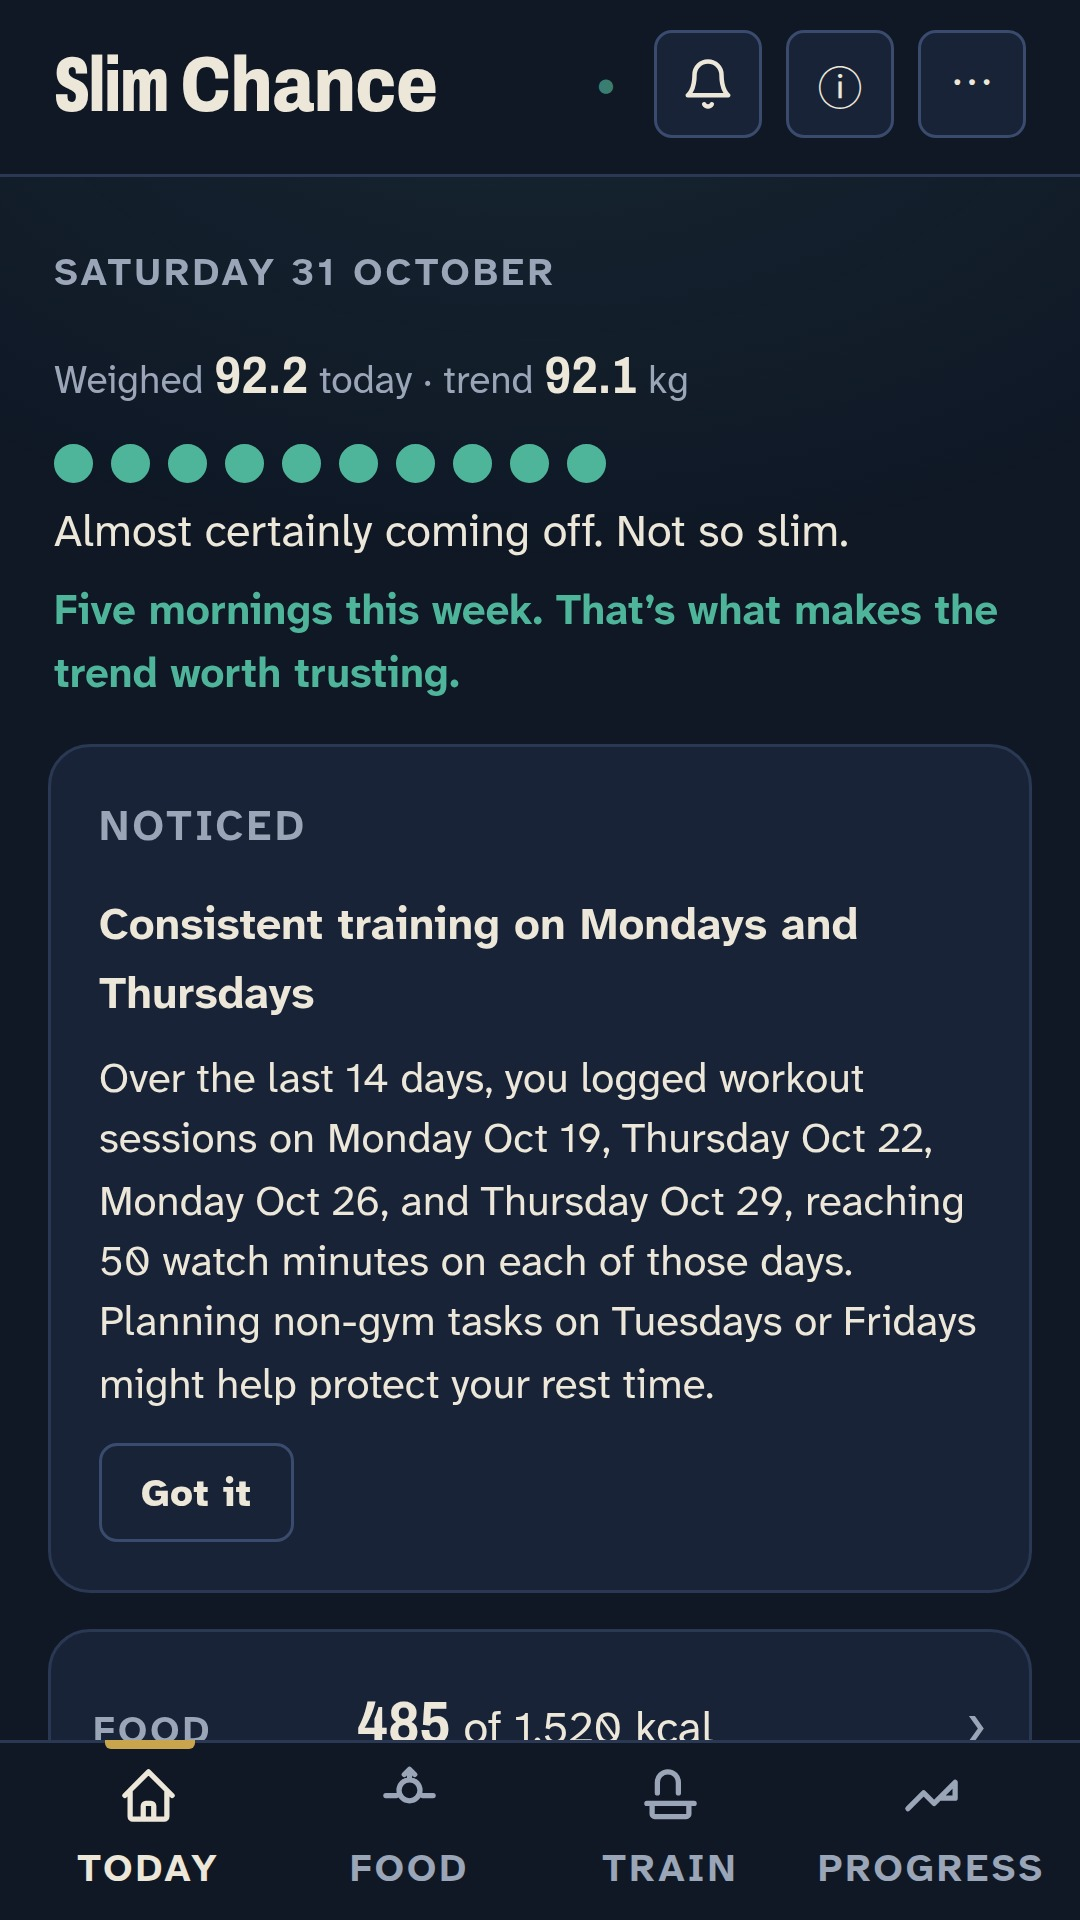
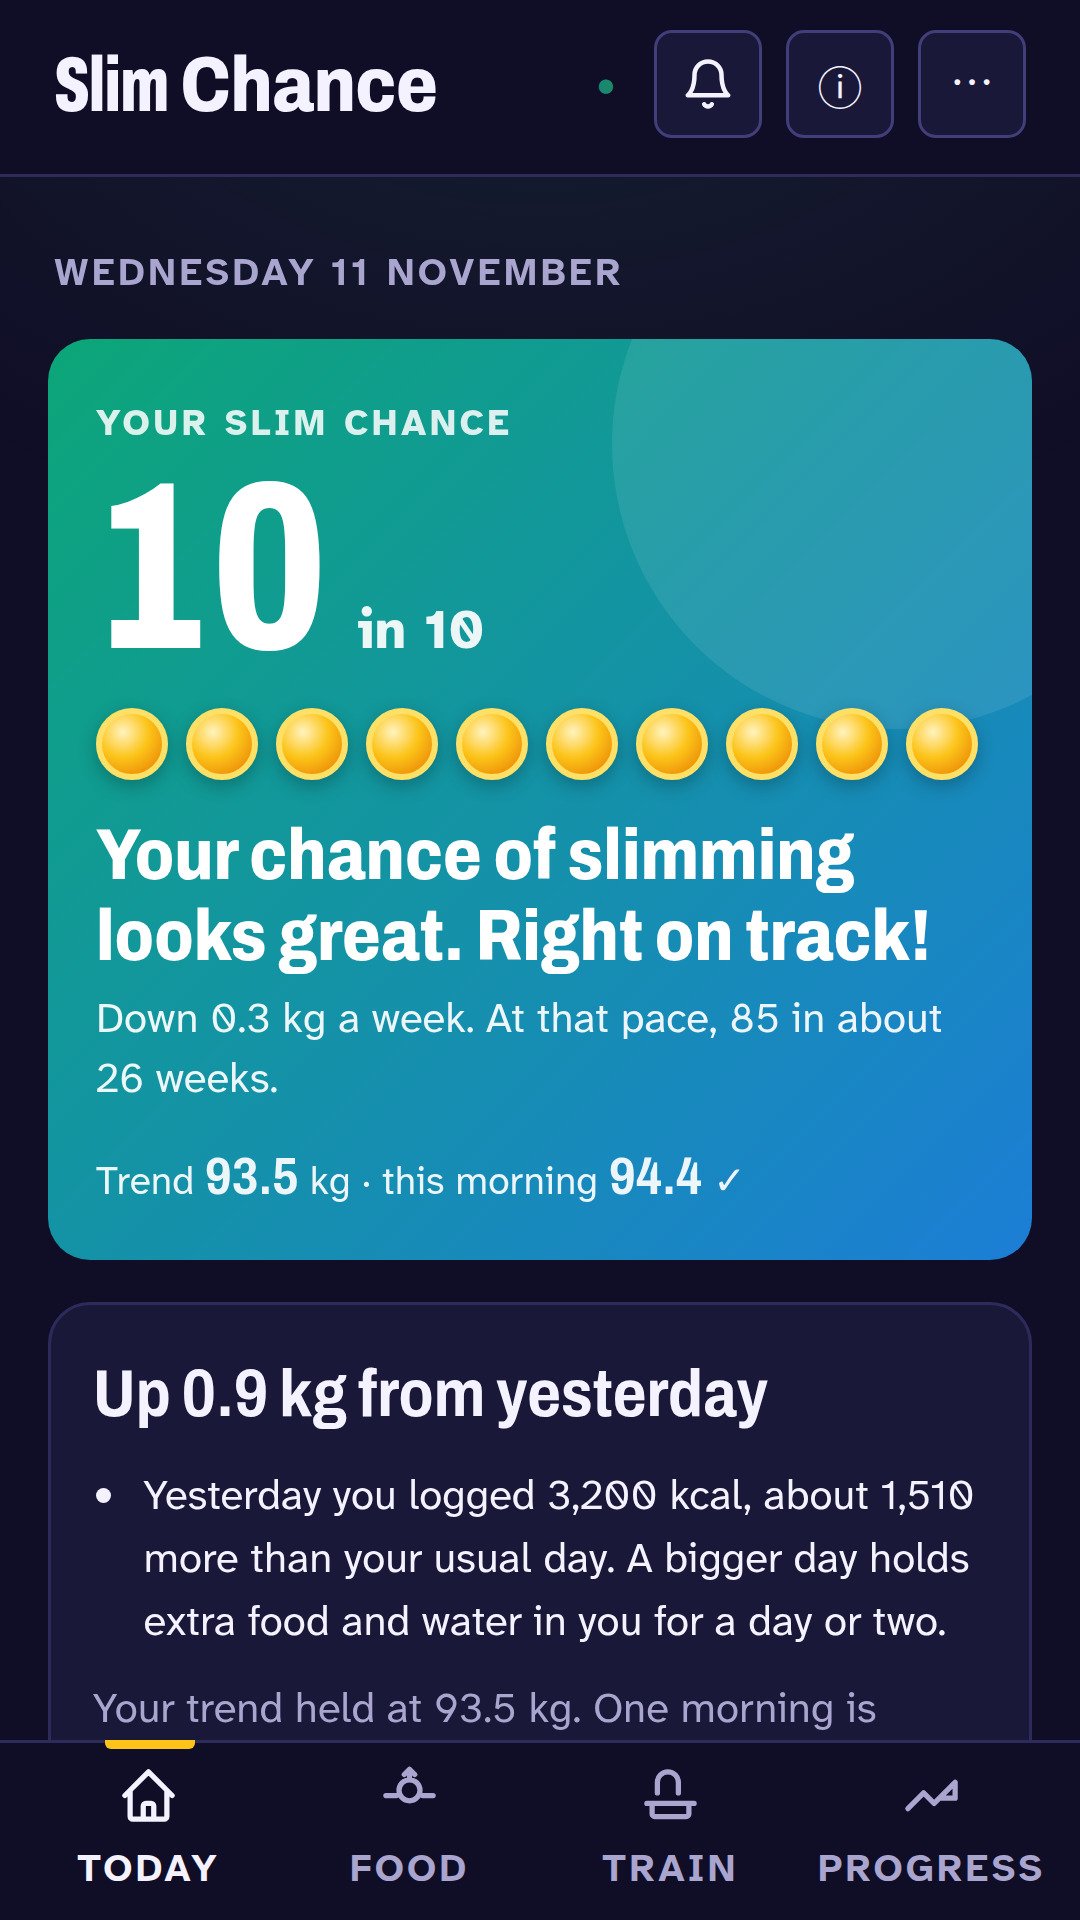
docs(play): five new store screenshots in the Deep theme, with the coach's week and the scale explained

diff --git a/svelte-recomp/store/play/LISTING.md b/svelte-recomp/store/play/LISTING.md
@@ -61,8 +61,8 @@ Slim Chance is a tracker and a guide, not medical advice. If you have a medical 
 **Graphics:** app icon `../play-icon-512.png`; feature graphic
 `feature-graphic.jpg`; phone screenshots, in this order:
 `screenshot-1-today.jpg`, `screenshot-2-scale-up.jpg`,
-`screenshot-3-first-odds.jpg`, `screenshot-4-progress.jpg`,
-`screenshot-5-food.jpg`. No tablet screenshots needed for a phone app.
+`screenshot-3-progress.jpg`, `screenshot-4-food.jpg`,
+`screenshot-5-train.jpg` (Deep theme, remade 2026-11-11 from a throwaway trial). No tablet screenshots needed for a phone app.
 
 ## 2. Store settings
 
